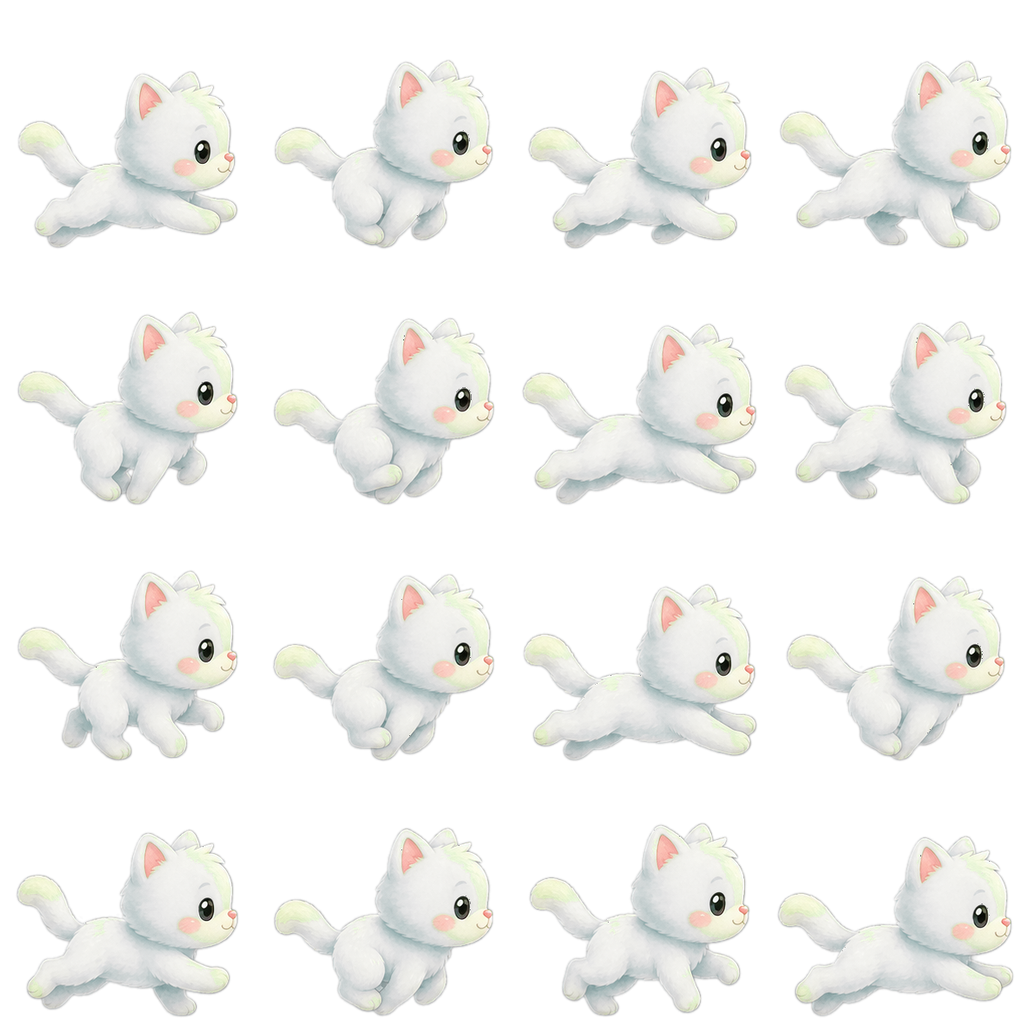
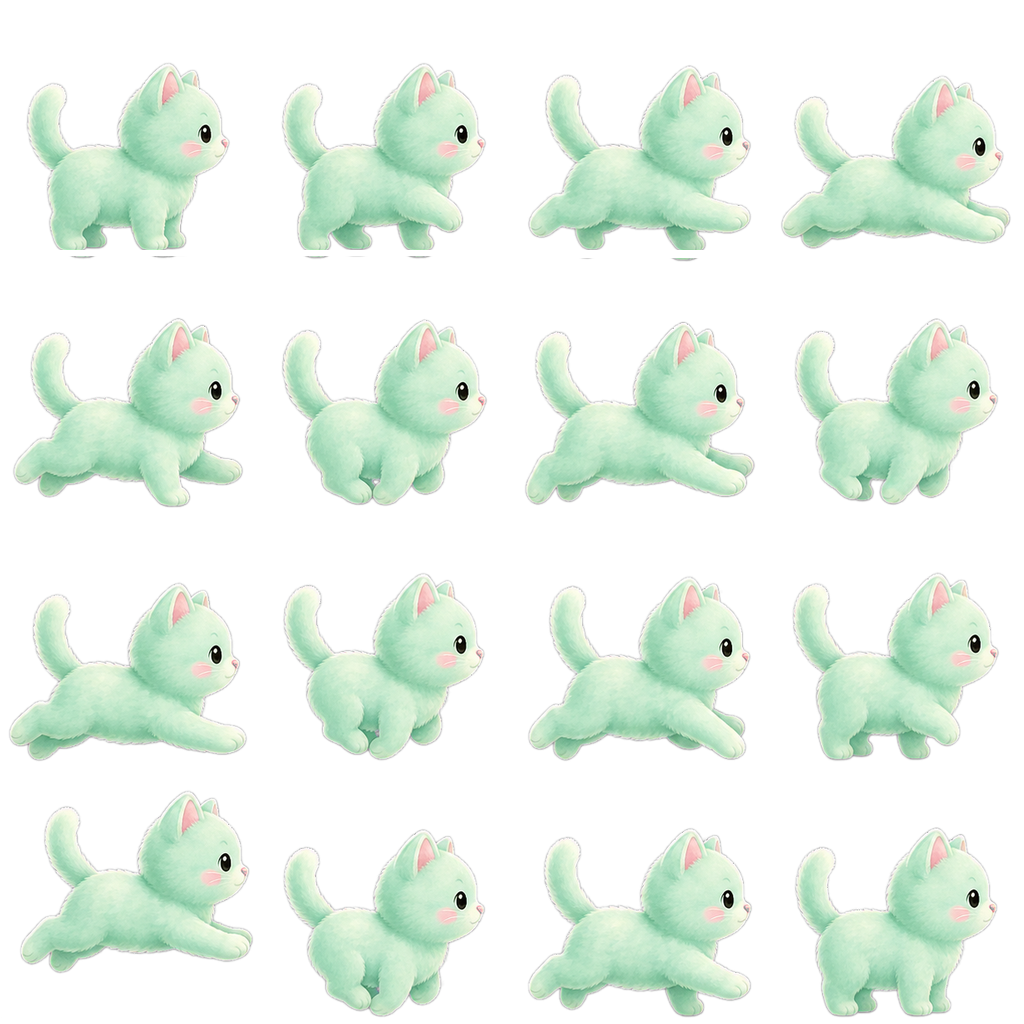
feat(coop-adventure): 전체 에셋 일괄 생성(19종) + 캐릭터 비율·측면 수정 + 단일시트 배선
codex 병렬 생성: 캐릭터 5(병아리·강아지·고양이·토끼·햄스터, 각 idle+달리기 단일 시트), 배경 3, 발판타일 3, 이펙트 4, UI/배너 4.

- #1 비율 어색함 근본수정: idle/run을 따로 생성해 몸 비율이 달랐음 → 한 시트(frame0=idle, 1~15=run)에서 생성해 같은 디퓨전 패스로 비율 일치(측정으로 원인 확인).
- 측면 보장: 1차 정면 → 측면 강조 재생성(cat·puppy·rabbit 프로필, 둥근 chick·hamster 2차 재생성으로 측면 확보).
- play.js 단일시트 전환: idle=setFrame(0), run anims 1~15@20fps, 공중 f6/f12, 텍스처 교체 제거, origin 발바닥. chick(나)·cat(친구) 배선·계측 검증(idle f0·달리기 진행·발 700·에러0).
- 처리 파이프라인/도구(_align_slice.py)·반영 절차는 assets/ASSETS_PLAN.md. scratch(_gen)는 .gitignore 제외.
- 미반영(다음 세션): puppy/rabbit/hamster(캐릭터선택), 배경·타일·이펙트·UI는 ASSETS_PLAN대로.

diff --git a/games/coop-adventure/src/scenes/play.js b/games/coop-adventure/src/scenes/play.js
@@ -33,8 +33,6 @@ var PlayScene = new Phaser.Class({
       this.load.spritesheet('chick-run', './assets/chick-run.png', { frameWidth: 256, frameHeight: 256 });
     if (!this.textures.exists('cat-run'))
       this.load.spritesheet('cat-run', './assets/cat-run.png', { frameWidth: 256, frameHeight: 256 });
-    if (!this.textures.exists('chick-idle')) this.load.image('chick-idle', './assets/chick-idle.png');
-    if (!this.textures.exists('cat-idle')) this.load.image('cat-idle', './assets/cat-idle.png');
   },
 
   create: function () {
@@ -97,21 +95,22 @@ var PlayScene = new Phaser.Class({
     this.physics.add.collider(this.player, this.solids);
     this.facing = 1;
     // 달리기 애니메이션 16프레임(게임 전역 anims에 1회 등록)
+    // frame0 = idle(서있기), frame1~15 = 달리기 사이클 (한 시트라 몸 비율 일치)
     if (!this.anims.exists('chick-run'))
-      this.anims.create({ key: 'chick-run', frames: this.anims.generateFrameNumbers('chick-run', { start: 0, end: 15 }), frameRate: 20, repeat: -1 });
+      this.anims.create({ key: 'chick-run', frames: this.anims.generateFrameNumbers('chick-run', { start: 1, end: 15 }), frameRate: 20, repeat: -1 });
     if (!this.anims.exists('cat-run'))
-      this.anims.create({ key: 'cat-run', frames: this.anims.generateFrameNumbers('cat-run', { start: 0, end: 15 }), frameRate: 20, repeat: -1 });
+      this.anims.create({ key: 'cat-run', frames: this.anims.generateFrameNumbers('cat-run', { start: 1, end: 15 }), frameRate: 20, repeat: -1 });
     // origin (0.5,1)=발바닥 기준 → 스프라이트 y를 바디 바닥에 맞추면 발이 지면에. 스쿼시도 발 기준으로 눌림.
     this._footY = this.player.height / 2; // 바디 절반 높이(player.y + footY = 바디 바닥). 하드코딩 대신 유도(리뷰)
-    this.playerSprite = this.add.sprite(this.spawn.x, this.spawn.y + this._footY, 'chick-idle')
+    this.playerSprite = this.add.sprite(this.spawn.x, this.spawn.y + this._footY, 'chick-run', 0)
       .setOrigin(0.5, 1).setDepth(7).setDisplaySize(96, 96);
-    // juice: 스쿼시/스트레치 스프링 기준 스케일. idle/run 모두 프레임 256이라 텍스처 교체해도 스케일 일정.
+    // juice: 스쿼시/스트레치 스프링 기준 스케일. 단일 시트(frame0=idle, 1~15=run)라 스케일 일정.
     this._sBaseX = this.playerSprite.scaleX;
     this._sBaseY = this.playerSprite.scaleY;
     this._wasGrounded = true;
     this._pose = 'idle';
     this._lastSquash = -9999; // 착지 스쿼시 쿨다운(발판 가장자리 떨림 과트리거 방지)
-    this._JUMP_FRAME = 1; this._FALL_FRAME = 9; // 공중 포즈용 달리기 시트 프레임
+    this._IDLE_FRAME = 0; this._JUMP_FRAME = 6; this._FALL_FRAME = 12; // 정지/공중 포즈용 시트 프레임
 
     // ===== 카메라 따라가기 (offset은 _layout에서 화면폭 기준) =====
     this.cameras.main.startFollow(this.player, true, 0.18, 0.16);
@@ -140,7 +139,7 @@ var PlayScene = new Phaser.Class({
 
     // ===== S4: 원격 친구(고스트) — NetClient 중계 또는 솔로(숨김) =====
     // 친구 비주얼은 항상 만들되 기본 숨김. 피어 스냅이 들어오면 표시(솔로면 안 보임).
-    this.ghost = this.add.sprite(this.spawn.x, 660, 'cat-idle')
+    this.ghost = this.add.sprite(this.spawn.x, 660, 'cat-run', 0)
       .setOrigin(0.5, 1).setAlpha(0.85).setDepth(5).setDisplaySize(92, 92).setVisible(false);
     this._ghostPrevX = this.spawn.x;
     this._hasPeer = false;
@@ -484,16 +483,16 @@ var PlayScene = new Phaser.Class({
       this._respawn();
     }
 
-    // 애니 상태머신: 공중=점프/낙하 포즈(달리기 시트 프레임), 접지+이동=달리기, 접지+정지=idle 텍스처
+    // 애니 상태머신(단일 시트 프레임만 사용): 공중=점프(f6)/낙하(f12), 접지+이동=달리기(1~15), 접지+정지=idle(f0)
     var spr = this.playerSprite;
     if (!grounded) {
-      if (this._pose !== 'air') { spr.anims.stop(); spr.setTexture('chick-run'); this._pose = 'air'; }
+      if (this._pose !== 'air') { spr.anims.stop(); this._pose = 'air'; }
       spr.setFrame(b.velocity.y < 0 ? this._JUMP_FRAME : this._FALL_FRAME);
     } else if (dir !== 0) {
-      if (this._pose !== 'run') this._pose = 'run';
+      this._pose = 'run';
       spr.play('chick-run', true); // ignoreIfPlaying — 달리는 동안 사이클 유지
     } else {
-      if (this._pose !== 'idle') { spr.anims.stop(); spr.setTexture('chick-idle'); this._pose = 'idle'; }
+      if (this._pose !== 'idle') { spr.anims.stop(); spr.setFrame(this._IDLE_FRAME); this._pose = 'idle'; }
     }
     // 스쿼시/스트레치 스프링 복원(프레임 애니와 별개 속성) + 위치(발바닥 origin)/방향 동기화
     spr.scaleX += (this._sBaseX - spr.scaleX) * 0.22;

diff --git a/games/coop-adventure/assets/_align_slice.py b/games/coop-adventure/assets/_align_slice.py
@@ -1,0 +1,63 @@
+"""포즈 시트/단일 이미지를 균일 프레임으로 정규화(다음 세션 에셋 반영용 도구).
+- 크로마 제거(remove_chroma_key.py)로 RGBA
+- 각 프레임 알파 bbox 트림 → 시트 전체 단일 스케일(중앙값 높이)로 크기 통일(pulsing 방지)
+  → 바닥(발) baseline + 가로중심 정렬 → 프레임 위치/크기 jitter 제거(애니 매끄러움)
+- 캐릭터 시트는 frame0=idle, 1..15=run 이 한 장에 있으므로(같은 디퓨전=몸비율 일치) 그대로 정규화.
+사용:
+  python _align_slice.py run  <in> <out> <gridN> <keyhex> <frame> <targetH>   # 포즈 시트(캐릭터)
+  python _align_slice.py idle <in> <out> <keyhex> <frame> <targetH>           # 단일 이미지
+  python _align_slice.py cut  <in> <out> <keyhex>                             # 크로마만 제거+트림(이펙트/타일/아이콘)
+"""
+import sys, os, subprocess, tempfile
+from PIL import Image
+
+SCRIPT = os.path.expanduser('~/.codex/skills/.system/imagegen/scripts/remove_chroma_key.py')
+
+def dechroma(inp, key):
+    tmp = tempfile.mktemp(suffix='.png')
+    subprocess.run([sys.executable, SCRIPT, '--input', inp, '--out', tmp,
+                    '--key-color', key, '--soft-matte', '--despill', '--edge-feather', '1', '--force'],
+                   check=True, capture_output=True)
+    return Image.open(tmp).convert('RGBA')
+
+def trim(cell):
+    bb = cell.getchannel('A').getbbox()
+    return cell.crop(bb) if bb else cell
+
+def scale_by(img, s):
+    w, h = img.size
+    return img.resize((max(1, int(round(w * s))), max(1, int(round(h * s)))), Image.LANCZOS)
+
+def place_bottom(content, frame, bottom_margin=6):
+    canvas = Image.new('RGBA', (frame, frame), (0, 0, 0, 0))
+    cw, ch = content.size
+    if cw > frame:
+        content = scale_by(content, frame / cw); cw, ch = content.size
+    x = (frame - cw) // 2
+    y = frame - bottom_margin - ch
+    canvas.alpha_composite(content, (x, max(0, y)))
+    return canvas
+
+def run_sheet(inp, out, n, key, frame, target_h):
+    img = dechroma(inp, key); W, H = img.size; cw, ch = W // n, H // n
+    cells = [trim(img.crop((c * cw, r * ch, (c + 1) * cw, (r + 1) * ch))) for r in range(n) for c in range(n)]
+    heights = sorted(im.size[1] for im in cells); med = heights[len(heights) // 2] or 1
+    s = target_h / med
+    sheet = Image.new('RGBA', (frame * n, frame * n), (0, 0, 0, 0))
+    for i, cell in enumerate(cells):
+        placed = place_bottom(scale_by(cell, s), frame); r, c = divmod(i, n)
+        sheet.paste(placed, (c * frame, r * frame))
+    sheet.save(out); print(f'{out} grid={n}x{n} scale={s:.3f} frame={frame} size={sheet.size}')
+
+def idle_pose(inp, out, key, frame, target_h):
+    img = trim(dechroma(inp, key)); s = target_h / (img.size[1] or 1)
+    place_bottom(scale_by(img, s), frame).save(out); print(f'{out} idle scale={s:.3f}')
+
+def cut(inp, out, key):
+    trim(dechroma(inp, key)).save(out); print(f'{out} cut+trim')
+
+if __name__ == '__main__':
+    m = sys.argv[1]
+    if m == 'run':  run_sheet(sys.argv[2], sys.argv[3], int(sys.argv[4]), sys.argv[5], int(sys.argv[6]), int(sys.argv[7]))
+    elif m == 'idle': idle_pose(sys.argv[2], sys.argv[3], sys.argv[4], int(sys.argv[5]), int(sys.argv[6]))
+    elif m == 'cut': cut(sys.argv[2], sys.argv[3], sys.argv[4])

diff --git a/games/coop-adventure/assets/ASSETS_PLAN.md b/games/coop-adventure/assets/ASSETS_PLAN.md
@@ -1,0 +1,108 @@
+# 에셋 일괄 생성 → 반영 계획 (다음 세션용)
+
+## ✅ 현재 상태 (2026-06-06 갱신)
+- **생성·처리 완료**: 19종 전부 생성→크로마 제거/정렬/리사이즈까지 끝. 게임용 `*.png` 준비됨.
+- **캐릭터 5종**: 모두 **측면 + 비율 일치(단일 시트 frame0=idle, 1~15=run)**. cat·puppy·rabbit은 깔끔한 프로필, chick·hamster는 둥근 형태라 2차 재생성으로 측면 확보(완벽 프로필은 아니나 측면 방향성 OK).
+- **게임 배선됨**: `chick-run`(나)·`cat-run`(친구)만 play.js에 단일시트 방식으로 반영·검증 완료(idle=f0, run=1~15@20fps, 공중 f6/f12, origin 발바닥).
+- **아직 미반영(다음 세션, 아래 §3대로)**: puppy/rabbit/hamster(캐릭터 선택용), 배경 3, 발판 타일 3, 이펙트 4, UI/배너 4.
+- scratch(`_gen/` 프롬프트·로그, `_proc.sh` 등)는 `.gitignore`로 커밋 제외. 도구 `_align_slice.py`와 이 문서는 유지.
+- **남은 화질 이슈**: chick/hamster 완벽 프로필 원하면 재재생성 여지. 배경/썸네일 PNG가 큼(원하면 JPG 변환).
+
+---
+
+
+> 2026-06-06, codex `imagegen` 병렬 생성. 이 문서는 **생성된 raw 이미지를 게임에 반영하는 절차**를 담는다.
+> 생성 자체는 백그라운드(`_gen/_run.sh`, task)로 수행됨. 처리·배선은 이 문서대로 진행.
+
+## 0. 핵심 원칙 / 비율 버그 수정
+- **이전 문제**: idle과 run을 **따로 생성** → 디퓨전이 몸 통통함을 다르게 그려 비율 불일치(서기=슬림, 달리기=통통). 측정: idle 벨리폭115/높이179 vs run 167/190.
+- **수정**: 캐릭터는 **한 시트에 idle(frame0)+달리기(frame1~15)를 함께 생성** → 같은 디퓨전 패스라 몸 비율 자동 일치. 텍스처 교체도 불필요(한 시트 안 프레임만 사용).
+
+## 1. 생성물 위치 찾기
+각 프롬프트는 `_gen/<name>.txt`, 로그는 `_gen/<name>.log`.
+```
+sid=$(grep -m1 "session id:" _gen/<name>.log | awk '{print $3}')
+img=~/.codex/generated_images/$sid/$(ls ~/.codex/generated_images/$sid | head -1)
+```
+`_gen/_run.sh` 출력(task bxxil6fo8)에 `DONE <name> exit=0` 으로 완료 확인. 실패(exit≠0)면 해당 `_gen/<name>.txt`만 재실행.
+
+## 2. 처리 도구
+`_align_slice.py` (크로마 제거+트림+발 baseline 정렬). 모드:
+- `run  <in> <out> 4 <chroma> 256 190` — 캐릭터 포즈 시트(4x4=16, frame 256)
+- `idle <in> <out> <chroma> 256 190` — 단일 포즈
+- `cut  <in> <out> <chroma>` — 크로마만 제거+트림(이펙트/타일/아이콘)
+배경/썸네일(크로마 없음)은 처리 없이 PIL로 리사이즈만.
+
+## 3. 에셋별 처리 + 게임 반영
+
+### 캐릭터 (5종) — 포즈 시트
+| name | chroma | 처리 | 산출 |
+|---|---|---|---|
+| char-chick | #ff00ff | `run … 4 "#ff00ff" 256 190` | `chick-run.png`(1024², 16f) ※ 기존 교체 |
+| char-cat | #ff00ff | 동일 | `cat-run.png` ※ 기존 교체 |
+| char-puppy | #00ff00 | 동일 | `puppy-run.png` |
+| char-rabbit | #00ff00 | 동일 | `rabbit-run.png` |
+| char-hamster | #00ff00 | 동일 | `hamster-run.png` |
+- **chick-idle.png/cat-idle.png 는 폐기**(이제 시트 frame0=idle 사용).
+- **play.js 배선 변경**:
+  - preload: `chick-run`/`cat-run` spritesheet(frameW/H 256) 만 로드. `chick-idle`/`cat-idle` 로드 제거.
+  - anims: 달리기는 `generateFrameNumbers(key,{start:1,end:15})` (frame0=idle 제외). frameRate 20.
+  - 상태머신: idle = `setFrame(0)` (텍스처 교체 X), run = `play(key,true)`, air = `setFrame(JUMP/FALL)`(run 프레임 중 택1, 예: 5/12). → 텍스처 단일이라 scale base 일정, origin(0.5,1) 유지.
+  - 캐릭터 선택 확장 시: player=선택 캐릭터 `-run` 시트, ghost=상대 캐릭터 시트. registry로 캐릭터 id 전달.
+
+### 배경 (3종) — 전체 이미지(크로마 없음)
+| name | 산출 | 반영 |
+|---|---|---|
+| bg-grass | `bg-grass.png` (가로, ~1536x864로 리사이즈) | PlayScene 스테이지 1 배경 |
+| bg-cloud | `bg-cloud.png` | 스테이지 2 |
+| bg-cave | `bg-cave.png` | 스테이지 3 |
+- 반영: PlayScene create에서 `this.add.image(0,0,bgKey).setOrigin(0).setScrollFactor(SF).setDepth(-10)`.
+  - 카메라 스크롤보다 느리게(패럴럭스): `setScrollFactor(0.3)` 정도. 월드폭(3600)보다 넓게 타일/스트레치 또는 `tileSprite`로.
+  - 스테이지별 bgKey는 `stages.js`에 필드 추가(`bg:'bg-grass'`)하고 init data로 전달.
+
+### 발판 타일 (3종) — 크로마, 타일
+| name | chroma | 산출 | 반영 |
+|---|---|---|---|
+| tile-grass | #ff00ff | `cut` → `tile-grass.png` | 스테이지1 발판 텍스처 |
+| tile-cloud | #00ff00 | `tile-cloud.png` | 스테이지2 |
+| tile-stone | #00ff00 | `tile-stone.png` | 스테이지3 |
+- 반영: 현재 `_solid()`는 색 사각형. → `tileSprite`로 발판 폭만큼 타일링하거나 9-slice. 물리 바디(staticGroup)는 그대로 두고 비주얼만 타일로 교체.
+
+### 이펙트 (4종) — 크로마, 투명
+| name | chroma | 산출 | 반영(현재 코드) |
+|---|---|---|---|
+| fx-dust | #00ff00 | `cut`→`fx-dust.png` | 점프/착지 시 발밑에 스폰(현재 스쿼시만 있음 → 먼지 추가) |
+| fx-sparkle | #ff00ff | `fx-sparkle.png` | 별 획득 `+1` 옆 반짝임 |
+| fx-poof | #00ff00 | `fx-poof.png` | `_poof()`의 💨 텍스트를 이 이미지로 교체 |
+| fx-heart | #00ff00 | `fx-heart.png` | 합류/이모트 '굿' 시 하트 팝 |
+- 반영: `this.add.image(x,y,key)` + 짧은 tween(scale/alpha) 후 destroy. 기존 `_poof`/별 연출 자리에 끼움.
+
+### UI / 배너 (4종)
+| name | chroma | 산출 | 반영 |
+|---|---|---|---|
+| ui-title | #00ff00 | `cut`→`ui-title.png` | 타이틀/부트 화면 배너(텍스트는 Phaser로 위에 올림) |
+| ui-star | #00ff00 | `ui-star.png` | MapScene 별 평가(현재 ★ 텍스트 → 이미지) |
+| ui-lock | #00ff00 | `ui-lock.png` | MapScene 잠금 노드(현재 🔒 텍스트 → 이미지) |
+| ui-thumb | 없음 | `ui-thumb.png`(16:9 리사이즈) | 아케이드 로비 썸네일/registry 등록 이미지 |
+
+## 4. 처리 일괄 실행 예시(다음 세션)
+```
+A=games/coop-adventure/assets
+resolve(){ sid=$(grep -m1 "session id:" $A/_gen/$1.log|awk '{print $3}'); echo ~/.codex/generated_images/$sid/$(ls ~/.codex/generated_images/$sid|head -1); }
+python $A/_align_slice.py run "$(resolve char-chick)" $A/chick-run.png 4 "#ff00ff" 256 190
+# … 캐릭터 5종 run, idle 없음
+python $A/_align_slice.py cut "$(resolve fx-dust)" $A/fx-dust.png "#00ff00"
+# … 이펙트/타일/아이콘 cut, 배경/썸네일 리사이즈
+```
+처리 후 각 이미지 **반드시 Read로 육안 확인**(크로마 잔흉·민트/녹색 잠식·비율). 민트(고양이)·초록 발판/타일은 마젠타 크로마 사용했는지 재확인.
+
+## 5. 반영 순서 권장
+1. 캐릭터 5종 처리 → play.js 시트 단일화(idle=frame0) 반영 + 비율 검증(계측: idle/run 발 baseline·크기 일치).
+2. 배경 3종 → PlayScene 패럴럭스 + stages.js bg 필드.
+3. 타일 3종 → 발판 비주얼.
+4. 이펙트 4종 → 기존 연출 자리에 끼움.
+5. UI 4종 → MapScene/타이틀/썸네일.
+각 단계 codex 리뷰 후 커밋(과하지 않게 단계별 1커밋).
+
+## 6. 정리
+- `_gen/` 폴더와 `_align_slice.py`, 이 문서는 작업 도구/기록. 최종 커밋 시 `_gen/`(프롬프트/로그)은 빼도 됨(또는 tools로 이동). 게임이 쓰는 건 처리된 `*.png`만.

diff --git a/games/coop-adventure/DESIGN.md b/games/coop-adventure/DESIGN.md
@@ -214,6 +214,11 @@ net.js에 이미 반영됨: RemoteClock(EWMA), push seq/단조검사, delay 180/
   - **정렬 파이프라인**: 슬라이서가 크로마 제거→프레임 트림→중앙값 높이 단일 스케일(크기 pulsing 방지)→발 baseline+가로중심 정렬. 게임은 origin(0.5,1)로 발을 바디 바닥(player.y+20)에 고정(스쿼시도 발 기준).
   - idle/run/air 텍스처 모두 프레임 256 → setTexture해도 scale base 일정(juice 스프링 유지). 미사용 chick.png/cat.png 제거.
   - 계측 검증: 16프레임·idle 텍스처 발 y=700(바디바닥)·달리기 진행·공중 스트레치 공존. 콘솔 에러 0.
+- 2026-06-06: **에셋 일괄 생성(19종) + 비율버그 근본수정** — 자세한 처리/반영은 `assets/ASSETS_PLAN.md`.
+  - codex 병렬 생성: 캐릭터 5(병아리·강아지·고양이·토끼·햄스터, 각 **idle+달리기 단일 시트**), 배경 3, 발판타일 3, 이펙트 4, UI/배너 4.
+  - **#1 비율 어색함 수정**: idle/run 따로 생성→몸 비율 달랐던 것. **한 시트(frame0=idle, 1~15=run)에서 생성**해 같은 디퓨전 패스로 비율 일치. 측정으로 원인 확인 후 적용.
+  - 측면 보장: 1차 정면 생성됨 → 측면 강조 재생성. cat·puppy·rabbit 프로필, 둥근 chick·hamster는 2차 재생성으로 측면 확보.
+  - play.js를 단일시트 방식으로 전환(idle=setFrame0, run anims 1~15, 공중 f6/f12, 텍스처 교체 제거). chick(나)·cat(친구) 배선·검증 완료. 나머지(캐릭터선택·배경·타일·이펙트·UI)는 ASSETS_PLAN대로 다음 세션 반영.
 
 ---
 
